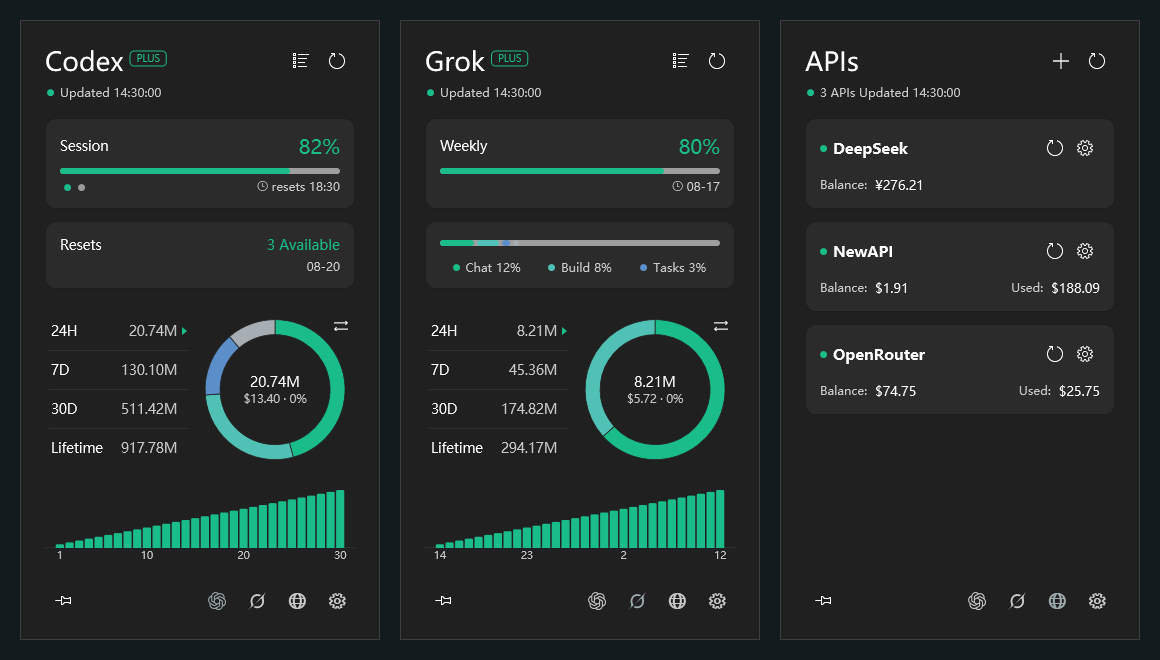
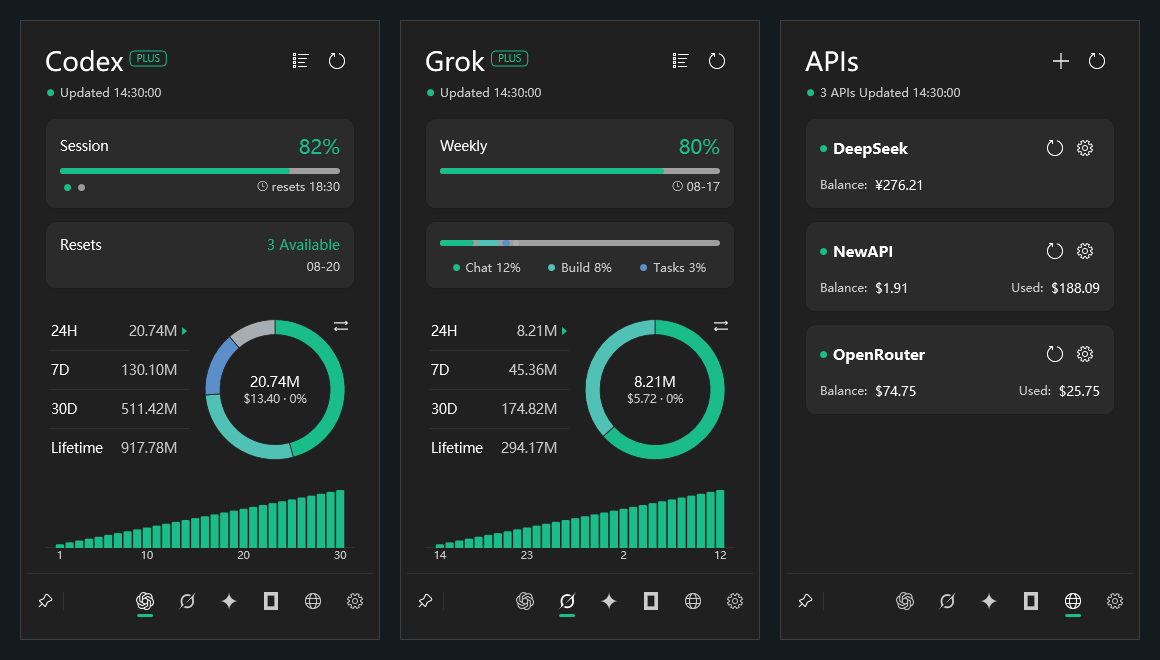
feat: 调整托盘底栏布局并用下划线标记当前页

Changed region(s): [[0.4345, 0.8788, 0.6517, 0.9394], [0.1241, 0.8788, 0.3103, 0.9394], [0.7759, 0.8788, 0.9621, 0.9394]]

diff --git a/CodexTray.App/TrayPopupWindow.xaml b/CodexTray.App/TrayPopupWindow.xaml
@@ -191,150 +191,48 @@
                 <Setter Property="ToolTipService.ShowDuration" Value="{StaticResource ToolTipShowDuration}" />
             </Style>
 
-            <!-- Segmented nav tab -->
+            <SolidColorBrush x:Key="FooterAccentBrush" Color="#1ABC89" />
+            <Style x:Key="FooterDividerStyle" TargetType="Border">
+                <Setter Property="Width" Value="1" />
+                <Setter Property="Height" Value="18" />
+                <Setter Property="VerticalAlignment" Value="Center" />
+                <Setter Property="Background" Value="{DynamicResource ControlStrokeColorDefaultBrush}" />
+                <Style.Triggers>
+                    <DataTrigger Binding="{Binding VisiblePages}" Value="{x:Static core:PageItem.None}">
+                        <Setter Property="Visibility" Value="Collapsed" />
+                    </DataTrigger>
+                </Style.Triggers>
+            </Style>
             <Style x:Key="TabButtonStyle" TargetType="{x:Type ui:Button}" BasedOn="{StaticResource IconButtonStyle}">
-                <Setter Property="Height" Value="32" />
-                <Setter Property="MinWidth" Value="80" />
-                <Setter Property="Padding" Value="14,0" />
-                <Setter Property="BorderThickness" Value="0" />
+                <Setter Property="Margin" Value="0,0,6,0" />
                 <Setter Property="Foreground" Value="{DynamicResource TextFillColorSecondaryBrush}" />
-                <Setter Property="Background" Value="Transparent" />
-                <Setter Property="FontWeight" Value="SemiBold" />
-                <Setter Property="FontSize" Value="13" />
-                <Setter Property="Cursor" Value="Hand" />
-                <Setter Property="ToolTipService.InitialShowDelay" Value="{StaticResource ToolTipInitialShowDelay}" />
-                <Setter Property="ToolTipService.ShowDuration" Value="{StaticResource ToolTipShowDuration}" />
-            </Style>
-            <Style x:Key="CodexTabButtonStyle" BasedOn="{StaticResource TabButtonStyle}" TargetType="{x:Type ui:Button}">
-                <Setter Property="MinWidth" Value="0" />
-                <Setter Property="Width" Value="36" />
-                <Setter Property="Height" Value="36" />
-                <Setter Property="Padding" Value="0" />
-                <Setter Property="Background" Value="Transparent" />
-                <Setter Property="Foreground" Value="{DynamicResource TextFillColorSecondaryBrush}" />
-                <Setter Property="FontFamily" Value="Segoe MDL2 Assets" />
-                <Setter Property="FontSize" Value="16" />
-                <Setter Property="Margin" Value="0,0,4,0" />
-                <Style.Triggers>
-                    <Trigger Property="IsMouseOver" Value="True">
-                        <Setter Property="Foreground" Value="{DynamicResource TextFillColorPrimaryBrush}" />
-                    </Trigger>
-                    <Trigger Property="IsPressed" Value="True">
-                        <Setter Property="Foreground" Value="{DynamicResource AccentTextFillColorPrimaryBrush}" />
-                    </Trigger>
-                    <DataTrigger Binding="{Binding IsCodexVisible}" Value="True">
-                        <Setter Property="Foreground" Value="{DynamicResource AccentTextFillColorPrimaryBrush}" />
-                    </DataTrigger>
-                </Style.Triggers>
-            </Style>
-            <Style x:Key="GrokTabButtonStyle" BasedOn="{StaticResource TabButtonStyle}" TargetType="{x:Type ui:Button}">
-                <Setter Property="MinWidth" Value="0" />
-                <Setter Property="Width" Value="36" />
-                <Setter Property="Height" Value="36" />
-                <Setter Property="Padding" Value="0" />
-                <Setter Property="Background" Value="Transparent" />
-                <Setter Property="Foreground" Value="{DynamicResource TextFillColorSecondaryBrush}" />
-                <Setter Property="FontFamily" Value="Segoe MDL2 Assets" />
-                <Setter Property="FontSize" Value="16" />
-                <Setter Property="Margin" Value="0,0,4,0" />
-                <Style.Triggers>
-                    <Trigger Property="IsMouseOver" Value="True">
-                        <Setter Property="Foreground" Value="{DynamicResource TextFillColorPrimaryBrush}" />
-                    </Trigger>
-                    <Trigger Property="IsPressed" Value="True">
-                        <Setter Property="Foreground" Value="{DynamicResource AccentTextFillColorPrimaryBrush}" />
-                    </Trigger>
-                    <DataTrigger Binding="{Binding IsGrokVisible}" Value="True">
-                        <Setter Property="Foreground" Value="{DynamicResource AccentTextFillColorPrimaryBrush}" />
-                    </DataTrigger>
-                </Style.Triggers>
-            </Style>
-            <Style x:Key="GeminiTabButtonStyle" BasedOn="{StaticResource TabButtonStyle}" TargetType="{x:Type ui:Button}">
-                <Setter Property="MinWidth" Value="0" />
-                <Setter Property="Width" Value="36" />
-                <Setter Property="Height" Value="36" />
-                <Setter Property="Padding" Value="0" />
-                <Setter Property="Background" Value="Transparent" />
-                <Setter Property="Foreground" Value="{DynamicResource TextFillColorSecondaryBrush}" />
-                <Setter Property="FontFamily" Value="Segoe MDL2 Assets" />
-                <Setter Property="FontSize" Value="16" />
-                <Setter Property="Margin" Value="0,0,4,0" />
-                <Style.Triggers>
-                    <Trigger Property="IsMouseOver" Value="True">
-                        <Setter Property="Foreground" Value="{DynamicResource TextFillColorPrimaryBrush}" />
-                    </Trigger>
-                    <Trigger Property="IsPressed" Value="True">
-                        <Setter Property="Foreground" Value="{DynamicResource AccentTextFillColorPrimaryBrush}" />
-                    </Trigger>
-                    <DataTrigger Binding="{Binding IsGeminiVisible}" Value="True">
-                        <Setter Property="Foreground" Value="{DynamicResource AccentTextFillColorPrimaryBrush}" />
-                    </DataTrigger>
-                </Style.Triggers>
-            </Style>
-            <Style x:Key="OpenCodeTabButtonStyle" BasedOn="{StaticResource TabButtonStyle}" TargetType="{x:Type ui:Button}">
-                <Setter Property="MinWidth" Value="0" />
-                <Setter Property="Width" Value="36" />
-                <Setter Property="Height" Value="36" />
-                <Setter Property="Padding" Value="0" />
-                <Setter Property="Background" Value="Transparent" />
-                <Setter Property="Foreground" Value="{DynamicResource TextFillColorSecondaryBrush}" />
-                <Setter Property="FontFamily" Value="Segoe MDL2 Assets" />
-                <Setter Property="FontSize" Value="16" />
-                <Setter Property="Margin" Value="0,0,4,0" />
-                <Style.Triggers>
-                    <Trigger Property="IsMouseOver" Value="True">
-                        <Setter Property="Foreground" Value="{DynamicResource TextFillColorPrimaryBrush}" />
-                    </Trigger>
-                    <Trigger Property="IsPressed" Value="True">
-                        <Setter Property="Foreground" Value="{DynamicResource AccentTextFillColorPrimaryBrush}" />
-                    </Trigger>
-                    <DataTrigger Binding="{Binding IsOpenCodeVisible}" Value="True">
-                        <Setter Property="Foreground" Value="{DynamicResource AccentTextFillColorPrimaryBrush}" />
-                    </DataTrigger>
-                </Style.Triggers>
-            </Style>
-            <Style x:Key="SettingsTabButtonStyle" BasedOn="{StaticResource TabButtonStyle}" TargetType="{x:Type ui:Button}">
-                <Setter Property="MinWidth" Value="0" />
-                <Setter Property="Width" Value="36" />
-                <Setter Property="Height" Value="36" />
-                <Setter Property="Padding" Value="0" />
-                <Setter Property="Background" Value="Transparent" />
-                <Setter Property="Foreground" Value="{DynamicResource TextFillColorSecondaryBrush}" />
-                <Setter Property="FontFamily" Value="Segoe MDL2 Assets" />
-                <Setter Property="FontSize" Value="16" />
-                <Style.Triggers>
-                    <Trigger Property="IsMouseOver" Value="True">
-                        <Setter Property="Foreground" Value="{DynamicResource TextFillColorPrimaryBrush}" />
-                    </Trigger>
-                    <Trigger Property="IsPressed" Value="True">
-                        <Setter Property="Foreground" Value="{DynamicResource AccentTextFillColorPrimaryBrush}" />
-                    </Trigger>
-                    <DataTrigger Binding="{Binding IsSettingsVisible}" Value="True">
-                        <Setter Property="Foreground" Value="{DynamicResource AccentTextFillColorPrimaryBrush}" />
-                    </DataTrigger>
-                </Style.Triggers>
-            </Style>
-            <Style x:Key="ApiTabButtonStyle" BasedOn="{StaticResource TabButtonStyle}" TargetType="{x:Type ui:Button}">
-                <Setter Property="MinWidth" Value="0" />
-                <Setter Property="Width" Value="36" />
-                <Setter Property="Height" Value="36" />
-                <Setter Property="Padding" Value="0" />
-                <Setter Property="Margin" Value="0,0,4,0" />
-                <Setter Property="Background" Value="Transparent" />
-                <Setter Property="Foreground" Value="{DynamicResource TextFillColorSecondaryBrush}" />
-                <Setter Property="FontFamily" Value="Segoe MDL2 Assets" />
-                <Setter Property="FontSize" Value="16" />
-                <Style.Triggers>
-                    <Trigger Property="IsMouseOver" Value="True">
-                        <Setter Property="Foreground" Value="{DynamicResource TextFillColorPrimaryBrush}" />
-                    </Trigger>
-                    <Trigger Property="IsPressed" Value="True">
-                        <Setter Property="Foreground" Value="{DynamicResource AccentTextFillColorPrimaryBrush}" />
-                    </Trigger>
-                    <DataTrigger Binding="{Binding IsApiVisible}" Value="True">
-                        <Setter Property="Foreground" Value="{DynamicResource AccentTextFillColorPrimaryBrush}" />
-                    </DataTrigger>
-                </Style.Triggers>
+                <Setter Property="AutomationProperties.Name" Value="{Binding ToolTip, RelativeSource={RelativeSource Self}}" />
+                <Setter Property="Template">
+                    <Setter.Value>
+                        <ControlTemplate TargetType="{x:Type ui:Button}">
+                            <Border x:Name="Surface" Background="{TemplateBinding Background}" CornerRadius="{TemplateBinding CornerRadius}">
+                                <Grid>
+                                    <ContentPresenter HorizontalAlignment="Center" VerticalAlignment="Center" />
+                                    <Border x:Name="SelectionLine" Width="16" Height="3" CornerRadius="1.5" Margin="0,0,0,2"
+                                            VerticalAlignment="Bottom" Background="{StaticResource FooterAccentBrush}" Visibility="Collapsed" />
+                                </Grid>
+                            </Border>
+                            <ControlTemplate.Triggers>
+                                <Trigger Property="IsMouseOver" Value="True">
+                                    <Setter TargetName="Surface" Property="Background" Value="{DynamicResource ControlFillColorSecondaryBrush}" />
+                                    <Setter Property="Foreground" Value="{DynamicResource TextFillColorPrimaryBrush}" />
+                                </Trigger>
+                                <Trigger Property="IsPressed" Value="True">
+                                    <Setter TargetName="Surface" Property="Background" Value="{DynamicResource ControlFillColorTertiaryBrush}" />
+                                </Trigger>
+                                <Trigger Property="Selector.IsSelected" Value="True">
+                                    <Setter TargetName="SelectionLine" Property="Visibility" Value="Visible" />
+                                    <Setter Property="Foreground" Value="{DynamicResource TextFillColorPrimaryBrush}" />
+                                </Trigger>
+                            </ControlTemplate.Triggers>
+                        </ControlTemplate>
+                    </Setter.Value>
+                </Setter>
             </Style>
 
             <!-- Quota progress bar -->
@@ -2545,33 +2443,31 @@
             </Grid>
 
             <!-- Footer -->
-            <Grid Grid.Row="1"
-                  Margin="0,18,0,0"
+            <Grid Grid.Row="1" Margin="-18,8,-18,0"
                   Visibility="{Binding IsAboutVisible, Converter={StaticResource InverseBooleanToVisibilityConverter}}">
+                <Grid.RowDefinitions>
+                    <RowDefinition Height="Auto" />
+                    <RowDefinition Height="Auto" />
+                </Grid.RowDefinitions>
                 <Grid.ColumnDefinitions>
+                    <ColumnDefinition Width="Auto" />
+                    <ColumnDefinition Width="Auto" />
                     <ColumnDefinition Width="*" />
                     <ColumnDefinition Width="Auto" />
                 </Grid.ColumnDefinitions>
-                <ui:Button x:Name="PanelPinButton" HorizontalAlignment="Left"
-                        Command="{Binding TogglePanelPinnedCommand}"
-                        ToolTip="{Binding PanelPinTooltip}" Content="&#xE718;">
-                    <ui:Button.Style>
-                        <Style TargetType="{x:Type ui:Button}" BasedOn="{StaticResource IconButtonStyle}">
-                            <Style.Triggers>
-                                <DataTrigger Binding="{Binding IsPanelPinned}" Value="True">
-                                    <Setter Property="Foreground" Value="#1ABC89" />
-                                </DataTrigger>
-                            </Style.Triggers>
-                        </Style>
-                    </ui:Button.Style>
+                <Border Grid.ColumnSpan="4" Height="1" Margin="0,0,0,9" Background="{DynamicResource ControlStrokeColorDefaultBrush}" />
+                <ui:Button x:Name="PanelPinButton" Grid.Row="1"
+                           Command="{Binding TogglePanelPinnedCommand}" ToolTip="{Binding PanelPinTooltip}"
+                           AutomationProperties.Name="{Binding PanelPinTooltip}" Style="{StaticResource IconButtonStyle}">
+                    <ui:SymbolIcon Symbol="Pin20" FontSize="18" Filled="{Binding IsPanelPinned}" />
                 </ui:Button>
-                <StackPanel Grid.Column="1"
-                            Orientation="Horizontal"
-                            HorizontalAlignment="Right">
+                <Border Grid.Row="1" Grid.Column="1" Style="{StaticResource FooterDividerStyle}" />
+                <StackPanel Grid.Row="1" Grid.Column="2" Orientation="Horizontal" HorizontalAlignment="Right">
                     <ui:Button Command="{Binding ShowCodexCommand}"
                             ToolTip="Codex"
                             Visibility="{Binding ShowCodexPage, Converter={StaticResource BooleanToVisibilityConverter}}"
-                            Style="{StaticResource CodexTabButtonStyle}">
+                            Selector.IsSelected="{Binding IsCodexVisible, Mode=OneWay}"
+                            Style="{StaticResource TabButtonStyle}">
                         <Path Width="18"
                               Height="18"
                               Data="{StaticResource OpenAiLogoGeometry}"
@@ -2582,7 +2478,8 @@
                             Command="{Binding ShowGrokCommand}"
                             ToolTip="Grok"
                             Visibility="{Binding ShowGrokPage, Converter={StaticResource BooleanToVisibilityConverter}}"
-                            Style="{StaticResource GrokTabButtonStyle}">
+                            Selector.IsSelected="{Binding IsGrokVisible, Mode=OneWay}"
+                            Style="{StaticResource TabButtonStyle}">
                         <Path Width="18"
                               Height="18"
                               Data="{StaticResource GrokLogoGeometry}"
@@ -2593,7 +2490,8 @@
                             Command="{Binding ShowGeminiCommand}"
                             ToolTip="Gemini"
                             Visibility="{Binding ShowGeminiPage, Converter={StaticResource BooleanToVisibilityConverter}}"
-                            Style="{StaticResource GeminiTabButtonStyle}">
+                            Selector.IsSelected="{Binding IsGeminiVisible, Mode=OneWay}"
+                            Style="{StaticResource TabButtonStyle}">
                         <Path Width="18"
                               Height="18"
                               Data="{StaticResource GeminiLogoGeometry}"
@@ -2604,7 +2502,8 @@
                             Command="{Binding ShowOpenCodeCommand}"
                             ToolTip="OpenCode"
                             Visibility="{Binding ShowOpenCodePage, Converter={StaticResource BooleanToVisibilityConverter}}"
-                            Style="{StaticResource OpenCodeTabButtonStyle}">
+                            Selector.IsSelected="{Binding IsOpenCodeVisible, Mode=OneWay}"
+                            Style="{StaticResource TabButtonStyle}">
                         <Path Width="15"
                               Height="18"
                               Data="{StaticResource OpenCodeLogoGeometry}"
@@ -2615,18 +2514,17 @@
                             Content="&#xE774;"
                             ToolTip="APIs"
                             Visibility="{Binding ShowApisPage, Converter={StaticResource BooleanToVisibilityConverter}}"
-                            Style="{StaticResource ApiTabButtonStyle}" />
-                    <Grid>
-                        <ui:Button Command="{Binding ShowSettingsCommand}"
-                                Content="&#xE713;"
-                                ToolTip="Settings"
-                                Style="{StaticResource SettingsTabButtonStyle}" />
-                        <Ellipse Width="6" Height="6" Margin="0,4,4,0"
-                                 HorizontalAlignment="Right" VerticalAlignment="Top"
-                                 Fill="{Binding AccentBrush}" IsHitTestVisible="False"
-                                 Visibility="{Binding HasAvailableUpdate, Converter={StaticResource BooleanToVisibilityConverter}}" />
-                    </Grid>
+                            Selector.IsSelected="{Binding IsApiVisible, Mode=OneWay}"
+                            Style="{StaticResource TabButtonStyle}" />
                 </StackPanel>
+                <Grid Grid.Row="1" Grid.Column="3">
+                    <ui:Button x:Name="SettingsTabButton" Margin="0" Command="{Binding ShowSettingsCommand}" Content="&#xE713;" ToolTip="Settings"
+                               Selector.IsSelected="{Binding IsSettingsVisible, Mode=OneWay}" Style="{StaticResource TabButtonStyle}" />
+                    <Ellipse Width="6" Height="6" Margin="0,4,4,0"
+                             HorizontalAlignment="Right" VerticalAlignment="Top"
+                             Fill="{StaticResource FooterAccentBrush}" IsHitTestVisible="False"
+                             Visibility="{Binding HasAvailableUpdate, Converter={StaticResource BooleanToVisibilityConverter}}" />
+                </Grid>
             </Grid>
 
             <ui:ContentDialogHost x:Name="DialogHost"

diff --git a/CodexTray.Tests/Program.cs b/CodexTray.Tests/Program.cs
@@ -467,7 +467,7 @@ internal static class Program
                     ((System.Windows.Media.SolidColorBrush)viewModel.CodexStatusDotBrush).Color,
                     "Codex status should stay independent from token cost accent");
                 System.Windows.Controls.Button grokTabButton = (System.Windows.Controls.Button)window.FindName("GrokTabButton");
-                System.Windows.Controls.StackPanel tabPanel = (System.Windows.Controls.StackPanel)grokTabButton.Parent;
+                System.Windows.Controls.Panel tabPanel = (System.Windows.Controls.Panel)grokTabButton.Parent;
                 int grokTabIndex = tabPanel.Children.IndexOf(grokTabButton);
                 AssertEqual("Codex", ((System.Windows.Controls.Button)tabPanel.Children[grokTabIndex - 1]).ToolTip, "Grok tab predecessor");
                 AssertEqual("Gemini", ((System.Windows.Controls.Button)tabPanel.Children[grokTabIndex + 1]).ToolTip, "Grok tab successor");
@@ -479,6 +479,25 @@ internal static class Program
                 int openCodeTabIndex = tabPanel.Children.IndexOf(openCodeTabButton);
                 AssertEqual("Gemini", ((System.Windows.Controls.Button)tabPanel.Children[openCodeTabIndex - 1]).ToolTip, "OpenCode tab predecessor");
                 AssertEqual("APIs", ((System.Windows.Controls.Button)tabPanel.Children[openCodeTabIndex + 1]).ToolTip, "OpenCode tab successor");
+                PageItem visiblePages = viewModel.VisiblePages;
+                var pinButton = (System.Windows.Controls.Button)window.FindName("PanelPinButton");
+                var settingsButton = (System.Windows.Controls.Button)window.FindName("SettingsTabButton");
+                foreach (PageItem pages in new[] { PageItem.All, PageItem.Grok | PageItem.Apis, PageItem.Grok, PageItem.None })
+                {
+                    viewModel.VisiblePages = pages;
+                    content.UpdateLayout();
+                    var visibleTabs = tabPanel.Children.OfType<System.Windows.Controls.Button>().Where(button => button.Visibility == System.Windows.Visibility.Visible).ToArray();
+                    AssertTrue(visibleTabs.Append(settingsButton).All(button => button.RenderSize == pinButton.RenderSize), "all footer buttons should match the pin button size");
+                    double nextButtonX = 0;
+                    foreach (var button in visibleTabs)
+                    {
+                        AssertEqual(nextButtonX, button.TranslatePoint(new System.Windows.Point(), tabPanel).X, "visible buttons should have a six-unit gap");
+                        nextButtonX += button.ActualWidth + 6;
+                    }
+                    AssertEqual(nextButtonX, tabPanel.ActualWidth, "the page group should reserve one gap per visible page including the gap before settings");
+                    AssertEqual(tabPanel.ActualWidth, settingsButton.TranslatePoint(new System.Windows.Point(), tabPanel).X, "visible pages should sit immediately left of settings");
+                }
+                viewModel.VisiblePages = visiblePages;
                 viewModel.UpdateGrokDashboard(new GrokUsageDashboard(
                     new GrokUsageSnapshot(5, DateTimeOffset.Now.AddDays(7).ToUnixTimeSeconds(), "SuperGrok Heavy")
                     {

diff --git a/README.md b/README.md
@@ -51,7 +51,8 @@
 - **左键单击托盘图标**: 显示或隐藏主面板.
 - **右键单击托盘图标**: 打开菜单, 提供 `Open Panel`, `Refresh Now` 与 `Exit`.
 - **悬停托盘图标**: 查看当前可见来源的 Codex Weekly, Grok Weekly, Gemini 5 小时额度与 OpenCode 5 小时额度.
-- **固定与收起**: 点击面板左下角图钉可固定显示 (保持至退出); 再次点击恢复失焦自动收起. 按 `Esc` 或左键托盘图标随时收起面板.
+- **切换页面**: 底栏右侧依次排列已启用的页面和设置齿轮. 点击图标即可切换, 图标下方的绿色短线标出当前页.
+- **固定与收起**: 点击左下角图钉可固定面板, 图钉变为实心. 再次点击恢复失焦自动收起. 固定状态保持至退出, 期间仍可按 `Esc` 或左键点击托盘图标收起面板.
 
 ### 页面说明
 
